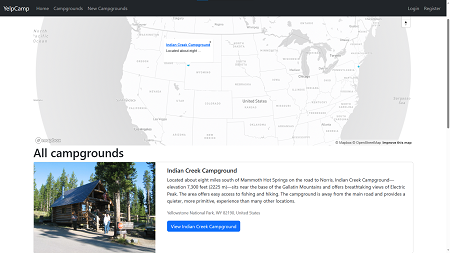
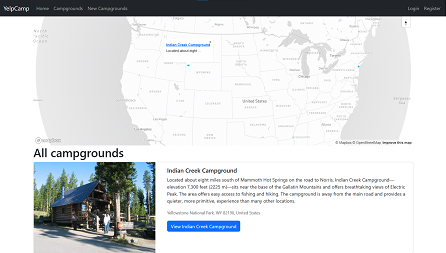
some changes

diff --git a/index.html b/index.html
@@ -1,9 +1,45 @@
 <!DOCTYPE html>
 <html lang="en">
   <head>
+    <!-- Meta Tags -->
+
+    <!-- Primary Meta Tags -->
+    <title>Faraaz Khan</title>
+    <meta name="title" content="Faraaz Khan" />
     <meta charset="UTF-8" />
     <meta name="viewport" content="width=device-width, initial-scale=1" />
-    <meta name="description" content="Portfolio" />
+    <meta name="description" content="Faraaz's Portfolio" />
+
+    <!-- Open Graph / Facebook -->
+    <meta property="og:type" content="website" />
+    <meta property="og:url" content="https://faraaz.netlify.app/" />
+    <meta property="og:title" content="Faraaz Khan" />
+    <meta property="og:description" content="Faraaz's Portfolio" />
+    <meta
+      property="og:image"
+      content="https://res.cloudinary.com/dxl9keibc/image/upload/v1693055885/portfolio_xanzwm.png"
+    />
+
+    <!-- Twitter -->
+    <meta property="twitter:card" content="summary_large_image" />
+    <meta property="twitter:url" content="https://faraaz.netlify.app/" />
+    <meta property="twitter:title" content="Faraaz Khan" />
+    <meta property="twitter:description" content="Faraaz's Portfolio" />
+    <meta
+      property="twitter:image"
+      content="https://res.cloudinary.com/dxl9keibc/image/upload/v1693055885/portfolio_xanzwm.png"
+    />
+
+    <!-- Optional Meta Tags -->
+    <meta name="keywords" content="" />
+    <meta name="robots" content="index, follow" />
+    <meta http-equiv="Content-Type" content="text/html; charset=" />
+    <meta name="language" content="English" />
+    <meta name="revisit-after" content=" days" />
+    <meta name="author" content="Faraaz Khan" />
+
+    <!-- Meta Tags -->
+
     <link rel="icon" href="images/favicon.png" />
     <link rel="preconnect" href="https://fonts.googleapis.com" />
     <link rel="preconnect" href="https://fonts.gstatic.com" crossorigin />
@@ -15,10 +51,6 @@
       href="https://fonts.googleapis.com/css2?family=Source+Code+Pro:wght@300;400&display=swap"
       rel="stylesheet"
     />
-    <!-- <link
-      rel="stylesheet"
-      href="https://cdn.jsdelivr.net/gh/devicons/devicon@v2.14.0/devicon.min.css"
-    /> -->
     <link
       rel="stylesheet"
       href="https://cdn.jsdelivr.net/gh/devicons/devicon@latest/devicon.min.css"
@@ -192,23 +224,28 @@
         </div>
 
         <div class="project-container">
-          <img src="./images/recepee.png" alt="recepee" />
+          <img src="./images/Swapify.png" alt="swapify" />
 
           <div class="project-content">
-            <h3>Recepee</h3>
-            <p>Recipe App built using and React and Spoonacular API</p>
+            <h3>Swapify</h3>
+            <p>
+              Swapify is a platform where users can exchange items with each
+              others by posting their products and chatting with other users.
+            </p>
 
             <ul class="project-skill">
               <li>React</li>
-              <li>Framer Motion</li>
-              <li>React Router</li>
-              <li>React Styled Components</li>
+              <li>Express</li>
+              <li>Mongoose</li>
+              <li>Cloudinary</li>
+              <li>Socket.io</li>
+              <li>Styled Components</li>
             </ul>
 
             <ul class="project-link">
               <li>
                 <a
-                  href="https://github.com/thefaraazkhan/Recepee"
+                  href="https://github.com/thefaraazkhan/Swapify"
                   aria-label="Source code"
                   target="_blank"
                   title="source code"
@@ -218,7 +255,7 @@
               </li>
               <li>
                 <a
-                  href="https://recepeereact.netlify.app/"
+                  href="https://swapify-tau.vercel.app/"
                   aria-label="Preview"
                   target="_blank"
                   title="preview"
@@ -276,6 +313,51 @@
         </div>
 
         <div id="moreProjectContainer" class="project-hidden">
+          <div
+            id="moreProjectContainer"
+            class="more-project-container project-container"
+          >
+            <img src="./images/recepee.png" alt="recepee" />
+
+            <div class="project-content">
+              <h3>Recepee</h3>
+              <p>Recipe App built using and React and Spoonacular API</p>
+
+              <ul class="project-skill">
+                <li>React</li>
+                <li>Framer Motion</li>
+                <li>React Router</li>
+                <li>React Styled Components</li>
+              </ul>
+
+              <ul class="project-link">
+                <li>
+                  <a
+                    href="https://github.com/thefaraazkhan/Recepee"
+                    aria-label="Source code"
+                    target="_blank"
+                    title="source code"
+                    rel="noopener"
+                    ><i class="icon-border fas fa-code"></i
+                  ></a>
+                </li>
+                <li>
+                  <a
+                    href="https://recepeereact.netlify.app/"
+                    aria-label="Preview"
+                    target="_blank"
+                    title="preview"
+                    rel="noopener"
+                    ><i
+                      aria-hidden="true"
+                      class="icon-border fas fa-external-link-alt"
+                    ></i
+                  ></a>
+                </li>
+              </ul>
+            </div>
+          </div>
+
           <div
             id="moreProjectContainer"
             class="more-project-container project-container"

diff --git a/styles.css b/styles.css
@@ -429,9 +429,16 @@ section {
 
 /* Project img style here */
 
+/* img {
+  box-shadow: 0 0.5px 1.5px rgba(0, 0, 0, 0.12), 0 0.5px 1px rgba(0, 0, 0, 0.24);
+  transition: all 0.3s cubic-bezier(0.25, 0.8, 0.25, 1);
+} */
+
 .project img {
-  border: 0.5px #030217 solid;
+  /* border: 0.3px #030217 solid; */
   border-radius: 0.5em;
+  -webkit-filter: drop-shadow(4px 4px 4px var(--clr-fg));
+  filter: drop-shadow(4px 4px 4px var(--clr-fg));
 }
 
 .project-content {

diff --git a/script.js b/script.js
@@ -60,7 +60,7 @@ showMoreBtn.addEventListener('click', () => {
     moreProjectContainer.classList.remove('project-hidden');
     showMoreBtn.textContent = 'Show Less';
     setTimeout(() => {
-      moreProjectContainer.style.maxHeight = '1400px'; // Adjust this value based on your design
+      moreProjectContainer.style.maxHeight = '1800px'; // Adjust this value based on your design
 
       window.scrollTo({
         top: moreProjectContainer.offsetTop,
